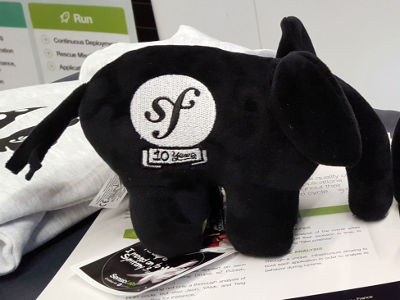
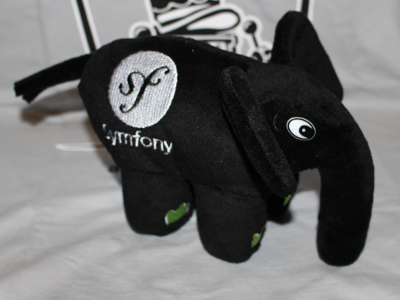
Add Symfony elephpant

diff --git a/source/_elephpants/2017-03-30-black-symfony.md b/source/_elephpants/2017-03-30-black-symfony.md
@@ -1,0 +1,17 @@
+---
+categories:
+    - black
+sponsor: Sensio Labs
+reverse: Symfony Framework        
+photos:
+    -
+        file: black-symfony-0-400x300.jpg
+        link: http://imgur.com/hKdmTnK
+        credit: Benjamin Jonard
+    -
+        file: black-symfony-1-400x300.jpg
+        link: http://imgur.com/YcdhzfU
+        credit: Benjamin Jonard
+---
+
+This elephpant was sold at [SymfonyLive 2017](http://paris2017.live.symfony.com/) in Paris.

diff --git a/source/_elephpants/2015-11-06-black-symfony-10-years.md b/source/_elephpants/2015-11-06-black-symfony-10-years.md
@@ -5,7 +5,7 @@ sponsor: Sensio Labs
 reverse: Symfony Framework 10 Years logo        
 photos:
     -
-        file: black-symfony-0-400x300.jpg
+        file: black-symfony-10-years-0-400x300.jpg
         link: http://imgur.com/jnVQgQV
         credit: Mark Baker
 ---
